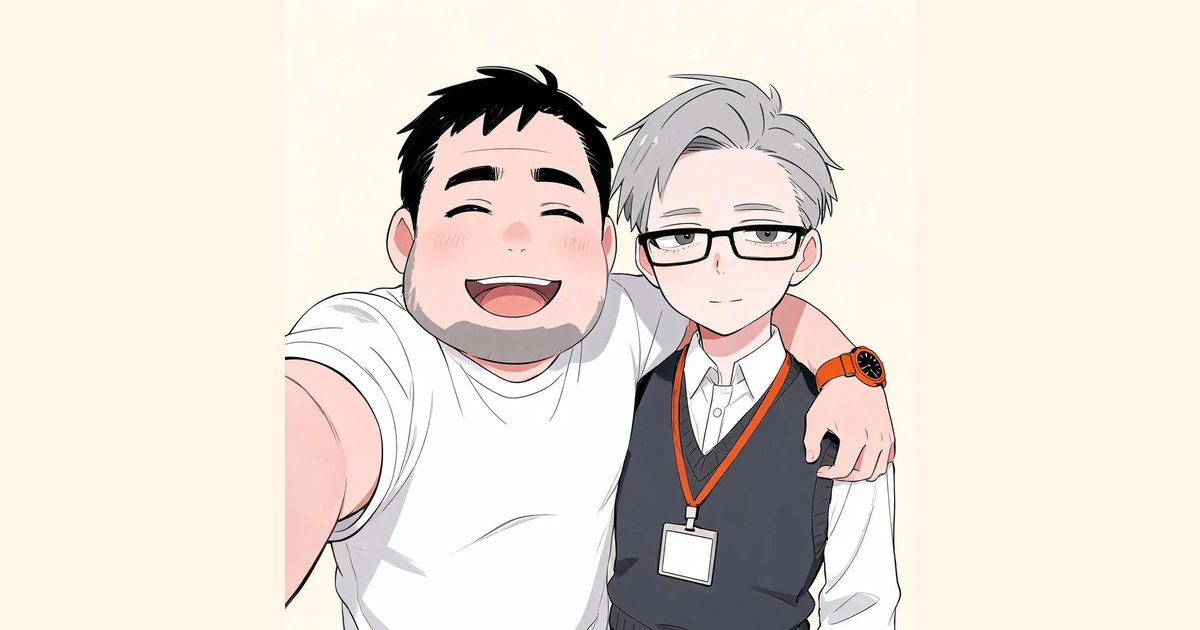
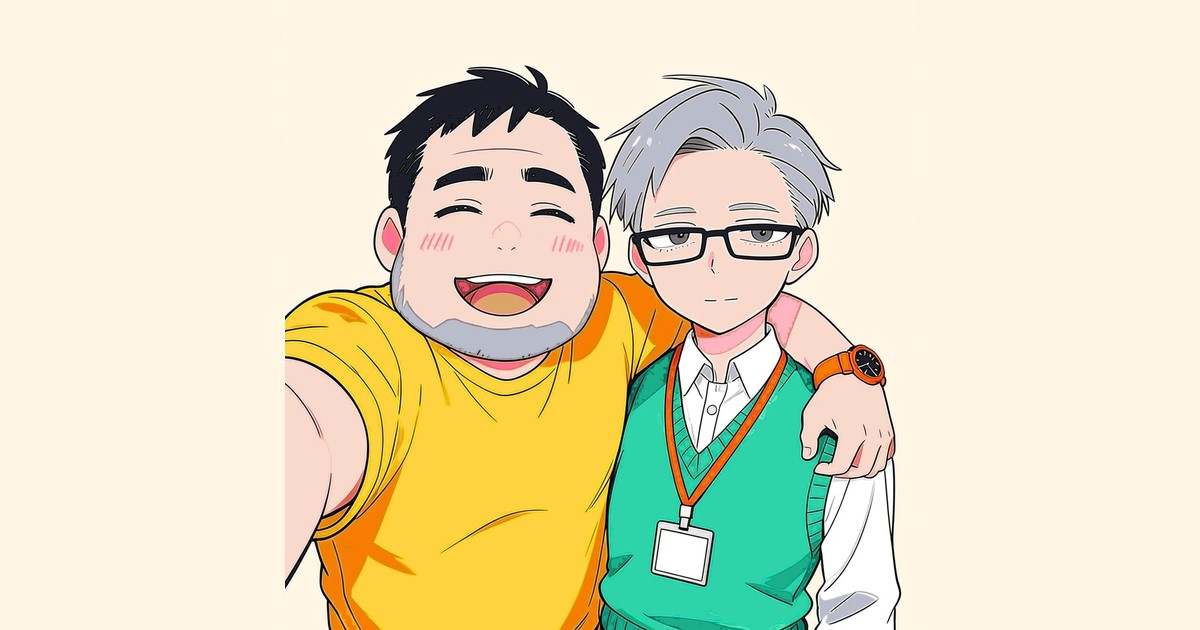
공동책임 OG 이미지(og-gongdong.jpg)를 아동 컬러판(레몬 티·민트 니트 조끼)으로 다시 칠함

Changed region(s): [[0.2158, 0.0905, 0.7708, 1.0]]

diff --git a/_tests/test_recolor_og_gongdong.py b/_tests/test_recolor_og_gongdong.py
@@ -1,0 +1,187 @@
+"""Item: recolour the gongdong OG image (assets/images/gongdong/og-gongdong.jpg)
+to the kids palette if the bb74c20 original is mono.
+
+Done when
+- the file is still a JPEG in RGB mode,
+- its size matches the bb74c20 original (1200x630),
+- colourfulness >= 5% (and higher than the original),
+- the dad's lemon tee (#FFD23F, was white) and the coworker's mint knit vest
+  (#2ED3A8, was dark grey) are visible (the mono original has neither: 0%),
+- the cream (#FFF6E5) background is kept in all four corners,
+- work PNGs / candidates live only outside the repo (TEMP), never in it.
+
+If the original were already colour (colourfulness >= 5%), the file may stay as
+it is: the "must change" checks are skipped then. At bb74c20 it measures ~2.8%,
+so the recolour is required.
+Run: python _tests/test_recolor_og_gongdong.py
+"""
+import colorsys
+import os
+import subprocess
+import sys
+import unittest
+
+sys.dont_write_bytecode = True
+sys.path.insert(0, os.path.dirname(os.path.abspath(__file__)))
+import imgcheck  # noqa: E402
+
+REL = "assets/images/gongdong/og-gongdong.jpg"
+BASE_SIZE = (1200, 630)
+MIN_COLOUR = 0.05      # completion criterion: colourfulness >= 5%
+MIN_SHARE = 0.03       # each garment colour must cover >= 3% of the picture
+BASE_MAX_SHARE = 0.01  # sanity: the mono base must stay below this
+
+
+def base_is_colour():
+    return imgcheck.colourfulness(imgcheck.original(REL)) >= MIN_COLOUR
+
+
+def hue_share(img, lo, hi, sat_min=0.30, val_min=0.0, val_max=1.0, max_side=256):
+    """Share of opaque pixels whose hue is in [lo, hi] (wraps if lo > hi)."""
+    img = img.convert("RGBA")
+    if max(img.size) > max_side:
+        img = img.copy()
+        img.thumbnail((max_side, max_side), imgcheck.Image.NEAREST)
+    total = hits = 0
+    for r, g, b, a in img.getdata():
+        if a < 128:
+            continue
+        total += 1
+        h, s, v = colorsys.rgb_to_hsv(r / 255, g / 255, b / 255)
+        h *= 360
+        inside = (lo <= h <= hi) if lo <= hi else (h >= lo or h <= hi)
+        if inside and s >= sat_min and val_min <= v <= val_max:
+            hits += 1
+    return hits / total if total else 0.0
+
+
+def lemon_share(img):
+    # lemon #FFD23F (hue ~46) and shadow #EDB51C (hue ~44); tangerine watch /
+    # lanyard (hue ~30) and cream background (s ~0.10) must not count
+    return hue_share(img, 40, 62, sat_min=0.45, val_min=0.70)
+
+
+def mint_share(img):
+    # mint #2ED3A8 (hue ~164) and shadow #1BAE89 (hue ~165)
+    return hue_share(img, 148, 182, sat_min=0.40, val_min=0.50)
+
+
+class TestRecolorOgGongdong(unittest.TestCase):
+    def test_file_exists(self):
+        self.assertTrue(os.path.isfile(imgcheck.repo_path(REL)))
+
+    def test_is_jpeg_rgb(self):
+        # finish writes RGBA; the result must be converted back to an RGB JPEG
+        img = imgcheck.current(REL)
+        self.assertEqual(img.format, "JPEG")
+        self.assertEqual(img.mode, "RGB")
+
+    def test_size_matches_base(self):
+        old, new = imgcheck.original(REL), imgcheck.current(REL)
+        self.assertEqual(new.size, old.size)
+        self.assertEqual(new.size, BASE_SIZE)
+
+    def test_size_and_mode_match_base(self):
+        ok, msg = imgcheck.same_size_mode(REL)
+        self.assertTrue(ok, msg)
+
+    def test_colourful_enough(self):
+        new = imgcheck.colourfulness(imgcheck.current(REL))
+        self.assertGreaterEqual(new, MIN_COLOUR, f"{new:.3f} < {MIN_COLOUR}")
+
+    def test_changed_if_base_mono(self):
+        if base_is_colour():
+            self.skipTest("bb74c20 original is already colour; may stay as is")
+        with open(imgcheck.repo_path(REL), "rb") as f:
+            now = f.read()
+        self.assertNotEqual(imgcheck.original_bytes(REL), now,
+                            "still the bb74c20 (mono) file")
+
+    def test_more_colourful_than_base(self):
+        if base_is_colour():
+            self.skipTest("bb74c20 original is already colour; may stay as is")
+        old = imgcheck.colourfulness(imgcheck.original(REL))
+        new = imgcheck.colourfulness(imgcheck.current(REL))
+        self.assertGreater(new, old, f"{old:.3f} -> {new:.3f}")
+
+    def test_dad_lemon_tee_present(self):
+        if base_is_colour():
+            self.skipTest("bb74c20 original is already colour; may stay as is")
+        share = lemon_share(imgcheck.current(REL))
+        self.assertGreaterEqual(share, MIN_SHARE, f"lemon tee {share:.3f}")
+
+    def test_coworker_mint_vest_present(self):
+        if base_is_colour():
+            self.skipTest("bb74c20 original is already colour; may stay as is")
+        share = mint_share(imgcheck.current(REL))
+        self.assertGreaterEqual(share, MIN_SHARE, f"mint vest {share:.3f}")
+
+    def test_cream_background_kept(self):
+        # The picture sits on cream on both sides: all four corners must stay
+        # light and warm-neutral (no dark/colour fringe from recolour or snap).
+        img = imgcheck.current(REL).convert("RGB")
+        w, h = img.size
+        bad = []
+        for xy in [(2, 2), (2, h - 3), (w - 3, 2), (w - 3, h - 3)]:
+            r, g, b = img.getpixel(xy)
+            if min(r, g, b) < 200 or max(r, g, b) - min(r, g, b) > 40:
+                bad.append(f"{xy}: {(r, g, b)}")
+        self.assertEqual(bad, [], "corners are not cream")
+
+    def test_no_work_files_in_repo(self):
+        out = subprocess.run(
+            ["git", "status", "--porcelain", "--untracked-files=all", "--ignored"],
+            cwd=imgcheck.REPO, capture_output=True, text=True, check=True).stdout
+        stray = [line for line in out.splitlines()
+                 if "og" in line.lower().rsplit("/", 1)[-1]
+                 and line.lower().rstrip('"').endswith((".png", ".webp", ".jpg", ".jpeg"))
+                 and line[3:].strip().strip('"') != REL
+                 and "og-twins" not in line]
+        self.assertEqual(stray, [], "work PNG / candidate left inside the repo")
+
+
+class TestHelpers(unittest.TestCase):
+    def test_hue_share_bounds(self):
+        Image = imgcheck.Image
+
+        def solid(rgb, a=255):
+            return Image.new("RGBA", (4, 4), rgb + (a,))
+
+        lemon, lemon_sh = solid((0xFF, 0xD2, 0x3F)), solid((0xED, 0xB5, 0x1C))
+        mint, mint_sh = solid((0x2E, 0xD3, 0xA8)), solid((0x1B, 0xAE, 0x89))
+        tang, cream = solid((0xF5, 0x7C, 0x00)), solid((0xFF, 0xF6, 0xE5))
+        white, grey = solid((255, 255, 255)), solid((60, 60, 66))
+        navy, skin = solid((0x34, 0x40, 0x7A)), solid((0xFF, 0xF3, 0xEC))
+        self.assertEqual(lemon_share(lemon), 1.0)
+        self.assertEqual(lemon_share(lemon_sh), 1.0)
+        self.assertEqual(mint_share(mint), 1.0)
+        self.assertEqual(mint_share(mint_sh), 1.0)
+        for other in (mint, tang, cream, white, grey, navy, skin):
+            self.assertEqual(lemon_share(other), 0.0)
+        for other in (lemon, tang, cream, white, grey, navy, skin):
+            self.assertEqual(mint_share(other), 0.0)
+        # transparent pixels are ignored
+        self.assertEqual(lemon_share(solid((0xFF, 0xD2, 0x3F), a=0)), 0.0)
+
+    def test_colour_threshold_edge(self):
+        # 12 of 256 pixels (4.7%) is below MIN_COLOUR, 13 of 256 (5.1%) passes.
+        Image = imgcheck.Image
+        img = Image.new("RGB", (16, 16), (0xFF, 0xF6, 0xE5))
+        for x in range(12):
+            img.putpixel((x, 0), (0x2E, 0xD3, 0xA8))
+        self.assertLess(imgcheck.colourfulness(img), MIN_COLOUR)
+        img.putpixel((12, 0), (0x2E, 0xD3, 0xA8))
+        self.assertGreaterEqual(imgcheck.colourfulness(img), MIN_COLOUR)
+
+    def test_base_is_mono_original(self):
+        # The bb74c20 original is the mono selfie: garment checks must fail on it,
+        # otherwise they prove nothing.
+        old = imgcheck.original(REL)
+        self.assertEqual((old.format, old.mode, old.size), ("JPEG", "RGB", BASE_SIZE))
+        self.assertFalse(base_is_colour())
+        self.assertLess(lemon_share(old), BASE_MAX_SHARE)
+        self.assertLess(mint_share(old), BASE_MAX_SHARE)
+
+
+if __name__ == "__main__":
+    unittest.main(verbosity=1)
